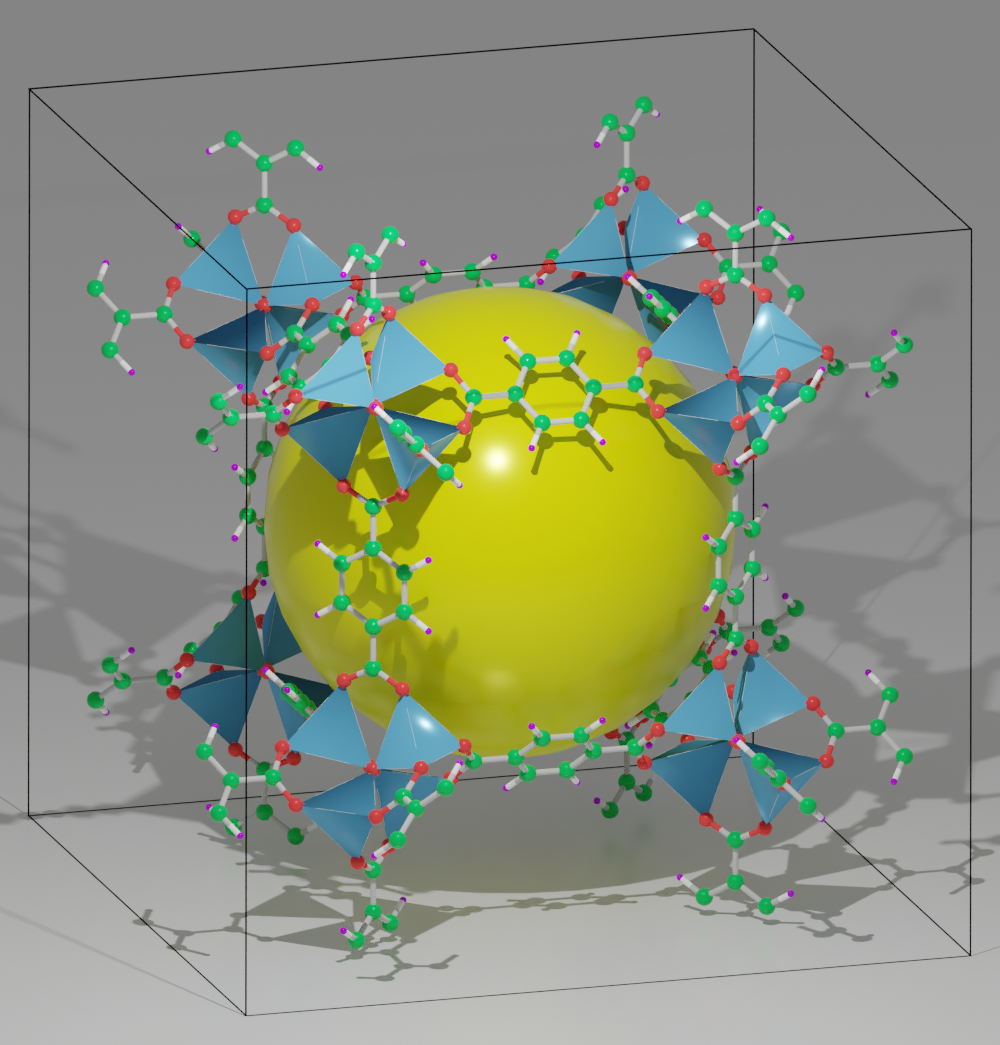
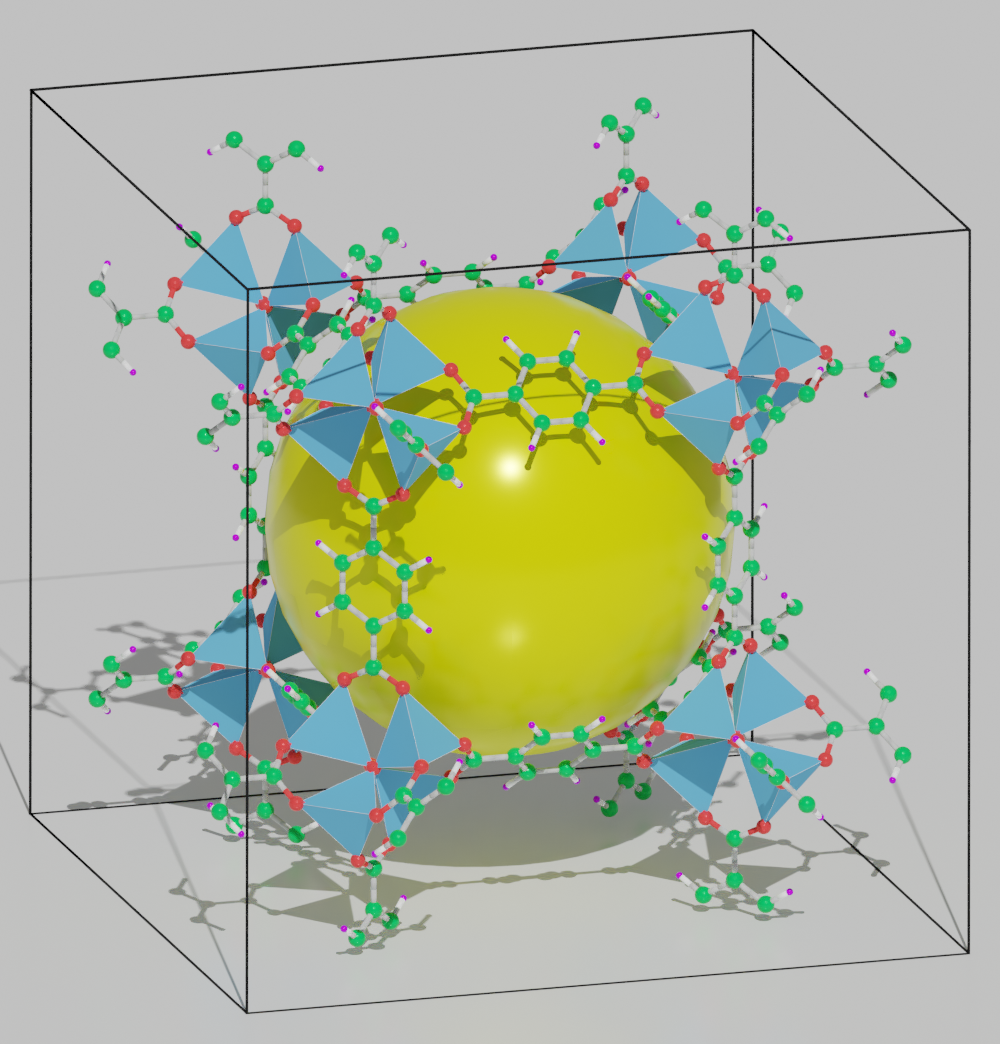
add docs for GUI

diff --git a/docs/source/_static/gallery_nanotuble.py b/docs/source/_static/gallery_nanotuble.py
@@ -1,0 +1,29 @@
+from ase.build import nanotube
+from batoms import Batoms
+from batoms.bdraw import draw_plane
+from batoms.butils import removeAll
+import numpy as np
+removeAll()
+cnt = nanotube(12, 0, length=8)
+cnt.new_array('species', np.array(cnt.get_chemical_symbols(), dtype = 'U10'))
+l = max(cnt.positions[:, 2]) - min(cnt.positions[:, 2])
+colors = {}
+n = len(cnt)
+for i in range(n):
+    ind = int((cnt[i].z/1))
+    kind = cnt[i].symbol + '_{0}'.format(ind)
+    cnt.arrays['species'][i] = kind
+    c = cnt[i].z/l
+    colors[kind] = [c, 1-c, 0]
+
+cnt = Batoms(label = 'cnt', atoms = cnt)
+for kind, color in colors.items():
+    cnt[kind].color = color
+
+cnt.model_type = 1
+# # draw polyhedral model manually and not show the edge
+cnt.render.set_world(color = [0.2, 0.2, 0.2, 1.0])
+cnt.render.lights['Default'].energy = 50
+cnt.render.lights['Default'].direction = [0.4, 0.5, 1]
+cnt.render.run([1, -0.3, 0.3], canvas = np.array([[-6, -6, -6], [6, 6, 6]]), 
+        engine = 'cycles', output = 'gallery_cnt.png')

diff --git a/docs/source/_static/gallery_cavity.py b/docs/source/_static/gallery_cavity.py
@@ -13,6 +13,7 @@ mof.draw_cavity_sphere(9.0, boundary = [[0.2, 0.8], [0.2, 0.8], [0.2, 0.8]])
 mof.draw_cell()
 mof.render.set_world(color = [0.2, 0.2, 0.2, 1.0])
 draw_plane(location = [0, 0, 0], size = 200, color = (0.9, 0.9, 0.9, 1))
-mof.render.lights['Default'].energy = 25
-mof.render.run([1, -0.3, 0.3], light_direction = [0.1, 0.5, 1], engine = 'eevee', output = 'gallery_cavity.png')
+mof.render.lights['Default'].energy = 30
+mof.render.lights['Default'].direction = [0.1, 0.5, 1]
+mof.render.run([1, -0.3, 0.3],engine = 'cycles', output = 'figs/gallery_cavity.png')
 

diff --git a/docs/source/gui/gui_batoms.rst b/docs/source/gui/gui_batoms.rst
@@ -2,14 +2,55 @@
 
 
 ==============
-Batoms Tools
+Batoms panel
 ==============
 
-The ``Batoms tools`` panel is used to set propeties related with :class:`Batoms` object.
-
-
-``model_type``, ``polyhedra_type``, ``scale``
+The ``Batoms tools`` panel is used to set properties related with :class:`Batoms` object.
 
 .. image:: ../_static/figs/gui_batoms.png
-   :width: 7 cm
+   :width: 5 cm
+   :align: right
+
+Model type
+------------
+
+- choose a structure or several structures from the viewport.
+- select the new model type in the panel.
+
+
+Replace
+------------
+
+- Select the objects
+- Press the ``Tab`` key to switch to ``Edit`` mode
+- Select atoms
+- Input the new ``species``
+- Click the ``Replace by`` button.
+
+Fragmentation
+------------
+
+- Select the objects
+- Press the ``Tab`` key to switch to ``Edit`` mode
+- Select atoms
+- Input the suffix
+- Click the ``Fragmentate`` button.
+
+
+Measurement
+-------------
+
+- Select the objects
+- Press the ``Tab`` key to switch to ``Edit`` mode
+- Click the ``Select atom`` button.
+- Hold on the ``Shift`` key, and select atoms.
+- Press on the ``Esc`` key to end the selection.
+- The result will be shown in the panel.
+
+Export
+-------------
+- Select the objects.
+- Input the name of the output file.
+- Press the ``Enter`` key.
+
 

diff --git a/docs/source/gui/gui_ase.rst b/docs/source/gui/gui_ase.rst
@@ -1,0 +1,48 @@
+.. _gui-ase:
+
+
+==============
+ASE panel
+==============
+
+The ``ASE`` panel is used to build structures using the ``ase.build`` modules.
+
+.. image:: ../_static/figs/gui_ase.png
+   :width: 5 cm
+   :align: right
+
+Build structure
+===================
+Set the formula and label, then choose which kind of structure you want to create.
+
+Molecule
+----------------------
+ASE defines a number of molecular geometries in the ``g2`` database, which can be loaded directly.
+
+.. image:: ../_static/figs/gui_ase_1.png
+   :width: 20 cm
+
+
+Bulk
+-----------
+ASE defines crystal structure and lattice constant for common elements, which can be loaded directly.
+
+Here is an example of ``Au``. 
+
+.. image:: ../_static/figs/gui_ase_2.png
+   :width: 20 cm
+
+Surface
+------------------------
+
+To build a surface:
+
+- select a bulk structure from the viewport, for example, the ``Au`` atoms
+- set the Miller indices, number of layers and the vacuum.
+- click the ``Add surface`` button.
+- go to the Python console to make a supercell.
+
+Here is an example of an ``Au(111)`` surface. 
+
+.. image:: ../_static/figs/gui_ase_3.png
+   :width: 20 cm

diff --git a/docs/source/gui/gui_plane.rst b/docs/source/gui/gui_plane.rst
@@ -1,0 +1,56 @@
+.. _gui-plane:
+
+
+==============
+Plane panel
+==============
+
+The ``Plane`` panel is used to set properties related with :class:`Planesetting` object.
+
+.. image:: ../_static/figs/gui_plane.png
+   :width: 5 cm
+   :align: right
+
+
+
+To change properties of plane:
+
+- choose a plane or several planes from the viewport.
+- select the new property in the panel.
+
+
+
+Lattice plane
+================
+
+- Select the objects.
+- Set the Miller indices, distance and scale
+- Press the ``Add`` key.
+
+
+.. image:: ../_static/figs/gui_plane_1.png
+   :width: 10 cm
+
+Boundary
+================
+
+- Select the objects.
+- set the Miller indices, distance and scale
+- Select the ``boundary`` box
+- Press the ``Add`` key.
+
+2D slicing
+================
+
+- Select the objects.
+- set the Miller indices, distance and scale
+- Select the ``slicing`` box
+- Press the ``Add`` key.
+
+Crystal shape
+================
+
+- Select the objects.
+- set the Miller indices, distance and scale
+- Select the ``crystal`` box and the ``sysmmetry`` box.
+- Press the ``Add`` key.

diff --git a/docs/source/gui/gui_pymatgen.rst b/docs/source/gui/gui_pymatgen.rst
@@ -1,0 +1,34 @@
+.. _gui-pymatgen:
+
+
+==============
+Pymatgen panel
+==============
+
+The ``pymatgen`` panel is used to obtain compounds using the Pymatgen API.
+
+
+.. image:: ../_static/figs/gui_pymatgen.png
+   :width: 5 cm
+   :align: right
+
+To load a structure from MaterialsProject_:
+
+- Input your MaterialsProject API key, please get one from https://www.materialsproject.org/open.
+- Find the ID for the structure from MaterialsProject_, input the ID
+- click ``Search``
+
+
+Example
+===============
+
+Load MoS\ :sub:`2`\  crystal, then go to the Python console and make a supercell:
+
+>>> mp_2815 *= [6, 6, 1]
+
+.. image:: ../_static/figs/gui_pymatgen_2.png
+   :width: 20 cm
+
+.. _MaterialsProject: https://www.materialsproject.org/
+
+

diff --git a/docs/source/gui/gui_pubchem.rst b/docs/source/gui/gui_pubchem.rst
@@ -1,0 +1,36 @@
+.. _gui-pubchem:
+
+
+==============
+Pubchem panel
+==============
+
+The ``pubchem`` panel is used to obtain compounds using the PubChem API.
+
+.. image:: ../_static/figs/gui_pubchem.png
+   :width: 5 cm
+   :align: right
+
+
+To load a structure from PubChem:
+
+- Find your structure in PubChem_.
+- Input the CID.
+- click the ``Search`` button.
+  
+Example
+============
+
+Find ``pyrene`` molecule in PubChem_, 
+
+.. image:: ../_static/figs/gui_pubchem_1.png
+   :width: 10 cm
+
+
+Use the CID number to load structure to Blender:
+
+
+.. image:: ../_static/figs/gui_pubchem_2.png
+   :width: 15 cm
+
+.. _PubChem: https://pubchem.ncbi.nlm.nih.gov/

diff --git a/docs/source/gui/gui_bond.rst b/docs/source/gui/gui_bond.rst
@@ -5,10 +5,15 @@
 Bond panel
 ==============
 
-The ``Bond`` panel is used to set propeties related with :class:`Bondsetting` object.
+The ``Bond`` panel is used to set properties related with :class:`Bondsetting` object.
 
-``bond_style``, ``min``, ``max``, ``search``, ``polyhedra`` and ``color``.
 
-.. image:: ../_static/figs/gui_bond_polyhedra.png
-   :width: 7 cm
+.. image:: ../_static/figs/gui_bond.png
+   :width: 5 cm
+   :align: right
 
+
+To change properties of bonds:
+
+- choose a bond or several bonds from the viewport.
+- select the new property in the panel.

diff --git a/docs/source/gui/gui_batom.rst b/docs/source/gui/gui_batom.rst
@@ -5,10 +5,15 @@
 Batom panel
 ==============
 
-The ``Batom`` panel is used to set propeties related with :mod:`Batom <batoms>` object.
+The ``Batom`` panel is used to set properties related with :mod:`Batom <batoms>` object.
 
-``shape``, ``scale`` and ``color``
 
 .. image:: ../_static/figs/gui_batom.png
-   :width: 7 cm
+   :width: 5 cm
+   :align: right
+
+To change properties of species:
+
+- choose a structure or several structures from the viewport.
+- select the new property in the panel.
 

diff --git a/docs/source/gui/index.rst b/docs/source/gui/index.rst
@@ -4,12 +4,23 @@
 GUI
 =========
 
-The graphical user-interface allows users to manipulate, and render molecular systems and atoms objects.
+The graphical user-interface allows users to creat, manipulate, and render atoms objects.
+
+.. image:: ../_static/figs/gui.png
+   :width: 20 cm
+
 
 .. toctree::
-   :maxdepth: 2
+   :maxdepth: 1
 
    gui_batoms
    gui_batom
-   gui_cell
    gui_bond
+   gui_polyhedra
+   gui_cell
+   gui_volume
+   gui_plane
+   gui_ase
+   gui_pymatgen
+   gui_pubchem
+

diff --git a/docs/source/gui/gui_polyhedra.rst b/docs/source/gui/gui_polyhedra.rst
@@ -1,0 +1,19 @@
+.. _gui-polyhedra:
+
+
+==============
+Polyhedra panel
+==============
+
+The ``polyhedra`` panel is used to set properties related with :class:`Polyhedrasetting` object.
+
+.. image:: ../_static/figs/gui_polyhedra.png
+   :width: 5 cm
+   :align: right
+
+
+
+To change properties of polyhedras:
+
+- choose a polyhedra or several polyhedras from the viewport.
+- select the new property in the panel.

diff --git a/docs/source/gui/gui_volume.rst b/docs/source/gui/gui_volume.rst
@@ -1,0 +1,19 @@
+.. _gui-volume:
+
+
+==============
+Volume panel
+==============
+
+The ``volume`` panel is used to set properties related with :class:`Isosurfacesetting` object.
+
+
+.. image:: ../_static/figs/gui_volume.png
+   :width: 5 cm
+   :align: right
+
+
+To change properties of isosurfaces:
+
+- choose an isosurface or several isosurfaces from viewport.
+- select the new property in the panel.
